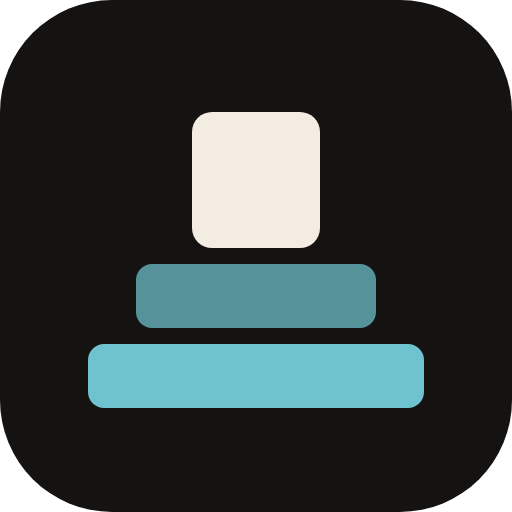
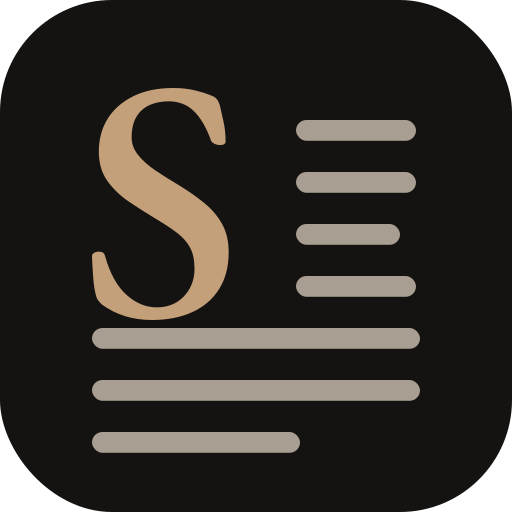
0.2.4 : icône propre (lettrine « S » sépia)
Claude-Session: https://claude.ai/code/session_01FWXfKpfaGCPjx3c3e2damx

diff --git a/app/__init__.py b/app/__init__.py
@@ -1,1 +1,1 @@
-__version__ = "0.2.3"
+__version__ = "0.2.4"

diff --git a/CHANGELOG.md b/CHANGELOG.md
@@ -1,5 +1,9 @@
 # Journal des versions — Scriptorium
 
+## 0.2.4 — 15/11/2026 — icône propre
+
+- Icône de Scriptorium à la place de celle du socle : une lettrine « S » sépia en EB Garamond (tracée en chemin, sans dépendre d'une police installée), à côté de lignes de texte, sur le fond sombre commun. `icone.svg`, `icone-180.png` et `icone-512.png` ; c'est elle que l'Anneau affiche sur la tuile.
+
 ## 0.2.3 — 14/11/2026 — EPUB lisible par Comptoir
 
 Le livre de cocktails sera importé dans Comptoir (l'appli des cocktails). Comptoir découpe un EPUB en recettes : un titre (`h1`–`h3`), les ingrédients (liste, ou lignes qui commencent par une quantité), puis la préparation ; il garde la page d'origine de chaque recette.

diff --git a/REPRISE.md b/REPRISE.md
@@ -4,6 +4,7 @@ Fichier à lire en premier dans une nouvelle session. Le mettre à jour à chaqu
 
 ## État (14/11/2026)
 
+- **0.2.4** (15/11/2026) : icône propre (lettrine « S » sépia). Tuile dans l'Anneau (Médias, à côté de Grimmory), posée dans Atlas.
 - **0.2.3** (14/11/2026) : EPUB lisible par Comptoir (recette jamais coupée entre deux fichiers, ingrédients en liste, repères de page dans le fil).
 - **0.2.2** (14/11/2026) : Mistral lit sans attendre l'inventaire et donne les numéros de page, EPUB d'essai (pages lues), page de l'original dans l'EPUB (repère et `page-list`), dépôt après inventaire confirmé.
 - **0.2.1** (14/11/2026) : numéros de page mieux lus, et « Relire les numéros » (voir `CHANGELOG.md`).
